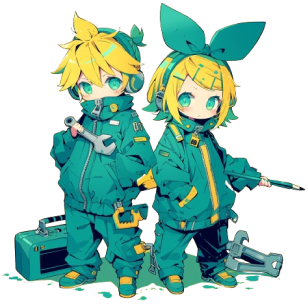
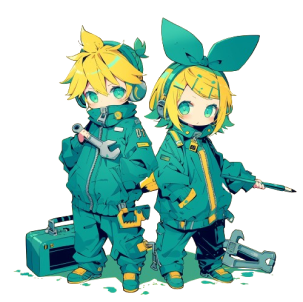
feat(design): add night theme

diff --git a/src/lib/scenes/UIScene.svelte b/src/lib/scenes/UIScene.svelte
@@ -64,6 +64,8 @@
     easing: linear,
   }}
 >
+  <div class="paper-background" />
+
   <Stars {animationDuration} />
 
   <div
@@ -74,7 +76,8 @@
     on:transitionend={handleTransitionEnd}
   >
     <div class="moon" class:transitionLive>
-      <img src="./images/moon.svg" alt="" />
+      <img class="blend img-moon" src="./images/moon.svg" alt="" />
+      <img class="blend img-paper" src="./images/texture.png" alt="" />
     </div>
     <div class="content-wrapper" class:transitionLive>
       <slot />
@@ -93,6 +96,15 @@
 </main>
 
 <style lang="scss">
+  .paper-background {
+    background-image: url(../images/texture02.png);
+    background-repeat: repeat;
+    position: absolute;
+    width: 100%;
+    height: 100%;
+    filter: opacity(25%);
+  }
+
   .content {
     position: absolute;
     z-index: $z-index-scene;
@@ -142,17 +154,30 @@
 
     position: absolute;
     z-index: -1;
-    filter: drop-shadow(0 0 20px var(--moon-color));
-
+    filter: drop-shadow(0 0 50px var(--moon-shine-color));
+    
     &.transitionLive {
       z-index: $z-index-game;
     }
 
-    img {
+    .img-moon {
       overflow: visible;
       width: 100%;
       aspect-ratio: 1 / 1;
     }
+
+    .img-paper {
+      position: absolute;
+      overflow: visible;
+      width: 100%;
+      aspect-ratio: 1 / 1;
+      border-radius: 50%;
+      object-fit: fill;
+    }
+  }
+
+  .blend {
+    mix-blend-mode: color-burn;
   }
 
   .content-wrapper {

diff --git a/src/lib/scenes/GameScene.svelte b/src/lib/scenes/GameScene.svelte
@@ -94,6 +94,8 @@
     easing: linear,
   }}
 >
+  <div class="paper-background" />
+
   <Stars {animationDuration} {pause} --stars-color={$vaColor} />
 
   {#if songProgress}
@@ -123,6 +125,15 @@
     @include breakpoint(xl) {
       --long-cloud-height: 20%;
     }
+  }
+
+  .paper-background {
+    background-image: url(../images/texture02.png);
+    background-repeat: repeat;
+    position: absolute;
+    width: 100%;
+    height: 100%;
+    filter: opacity(25%);
   }
 
   .error,
@@ -162,7 +173,7 @@
       bottom: 0;
       left: 0;
       width: 100%;
-      aspect-ratio: 1300 / 1200;
+      aspect-ratio: 1339 / 1194;
       background-image: url('../images/miku.png');
       background-position: bottom center;
       background-repeat: no-repeat;
@@ -185,7 +196,7 @@
 
     position: absolute;
     z-index: $z-index-scene;
-    top: calc(-1 * var(--height) / 2);
+    top: calc(var(--height) / 4);
     left: calc(-1 * var(--height) / 2);
     width: 100%;
     height: var(--height);
@@ -193,7 +204,7 @@
     background-position: left center;
     background-repeat: no-repeat;
     background-size: contain;
-    filter: drop-shadow(0 0 20px var(--moon-color));
+    filter: drop-shadow(0 0 50px var(--moon-shine-color));
     transform: translateX(var(--progress));
     transition: transform 1s linear;
     will-change: transform;

diff --git a/src/lib/scenes/GameStateScene.svelte b/src/lib/scenes/GameStateScene.svelte
@@ -20,11 +20,14 @@
     easing: linear,
   }}
 >
+  <div class="paper-background" />
+
   <Stars {animationDuration} pause />
 
   <div class="content">
     <div class="moon">
-      <img src="./images/moon.svg" alt="" />
+      <img class="blend img-moon" src="./images/moon.svg" alt="" />
+      <img class="blend img-paper" src="./images/texture.png" alt="" />
     </div>
     <slot />
   </div>
@@ -39,6 +42,15 @@
     @include absolute_full;
 
     background: linear-gradient(to bottom, #020111 10%, #3a3a52 100%);
+  }
+
+  .paper-background {
+    background-image: url(../images/texture02.png);
+    background-repeat: repeat;
+    position: absolute;
+    width: 100%;
+    height: 100%;
+    filter: opacity(35%);
   }
 
   .content {
@@ -64,12 +76,25 @@
 
     position: absolute;
     z-index: -1;
-    filter: drop-shadow(0 0 20px var(--moon-color));
+    filter: drop-shadow(0 0 50px var(--moon-shine-color));
 
-    img {
+    .img-moon {
       overflow: visible;
       width: 100%;
       aspect-ratio: 1 / 1;
     }
+
+    .img-paper {
+      position: absolute;
+      overflow: visible;
+      width: 100%;
+      aspect-ratio: 1 / 1;
+      border-radius: 50%;
+      object-fit: fill;
+    }
+  }
+
+  .blend {
+    mix-blend-mode: color-burn;
   }
 </style>

diff --git a/src/lib/components/clouds/LongCloud.svelte b/src/lib/components/clouds/LongCloud.svelte
@@ -3,7 +3,7 @@
   export let pause = false;
 </script>
 
-<div class="cloud cloud--long" class:pause style:--duration="{animationDuration * 2}ms"></div>
+<div class="cloud cloud--long" class:pause style:--duration="{animationDuration * 20}ms"></div>
 
 <style lang="scss">
   div {
@@ -17,10 +17,10 @@
     animation-name: movingcloud;
     animation-play-state: running;
     animation-timing-function: linear;
-    aspect-ratio: 3198 / 220;
-    background-image: url('../images/cloud_long.svg');
+    aspect-ratio: 4795 / 220;
+    background-image: url('../images/cloud_long4.svg');
     background-size: cover;
-    filter: drop-shadow(rgb(0 0 0 / 25%) 5px -1px 3px);
+    filter: drop-shadow(rgb(0 0 0 / 25%) 15px -13px 4px);
     will-change: transform;
 
     &.pause {
@@ -43,7 +43,7 @@
       display: block;
       width: 100%;
       height: 100%;
-      background-image: url('../images/cloud_long.svg');
+      background-image: url('../images/cloud_long4.svg');
       background-size: cover;
       content: '';
       will-change: transform;

diff --git a/src/app.scss b/src/app.scss
@@ -4,6 +4,7 @@
   --blue-color: #1e5b64;
   --text-color: #020111;
   --moon-color: #f6f1d5;
+  --moon-shine-color: #e6c563;
   --red-color: #dc2b4d;
   --white-color: #fff;
   --transparent-white-color: rgb(255 255 255 / 50%);
